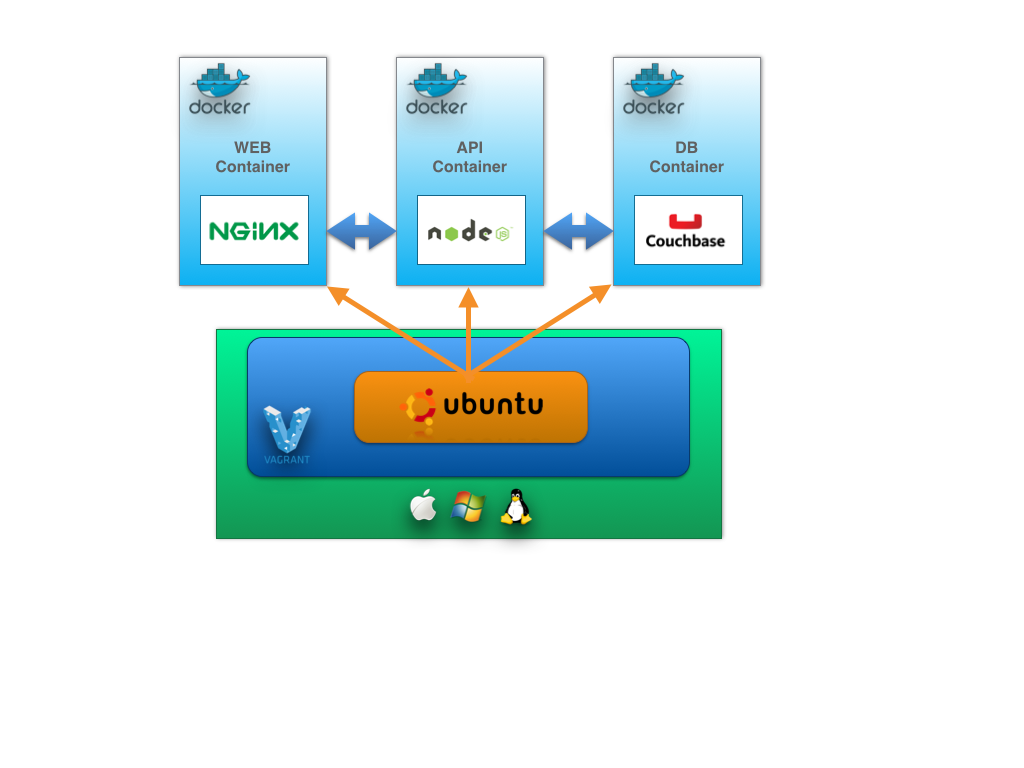
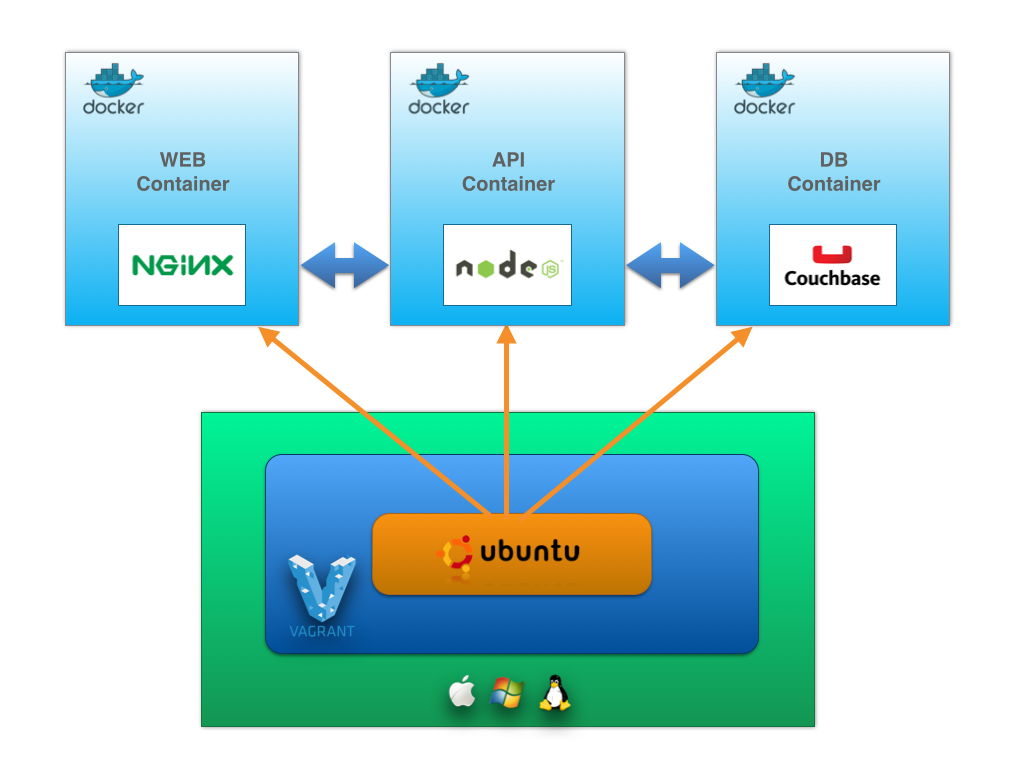
add diagram

diff --git a/README.md b/README.md
@@ -35,6 +35,8 @@ An employee scheduling application that makes employee scheduling and management
 ###<a name="diagram-development"> Development
 ![Development Architecture Diagram](employee-scheduling-development.png "Development Architecture Diagram")
 
+The Docker provider allows Vagrant to manage development environments that run within containers, rather than virtual machines. This works without any additional software required on Linux, Mac OS X, and Windows. On platforms that don't support Linux Containers natively such as Mac OS X and Windows, Vagrant is smart enough to detect these cases and automatically spins up a Linux virtual machine to run the Docker containers. Vagrant then shares this virtual machine for all Docker-based development environments with Vagrant. That means with just a single virtual machine, Vagrant can manage many Docker environments.
+
 ###<a name="diagram-production"> Production
 
 ##<a name="directory-layout"></a> Directory Layout
